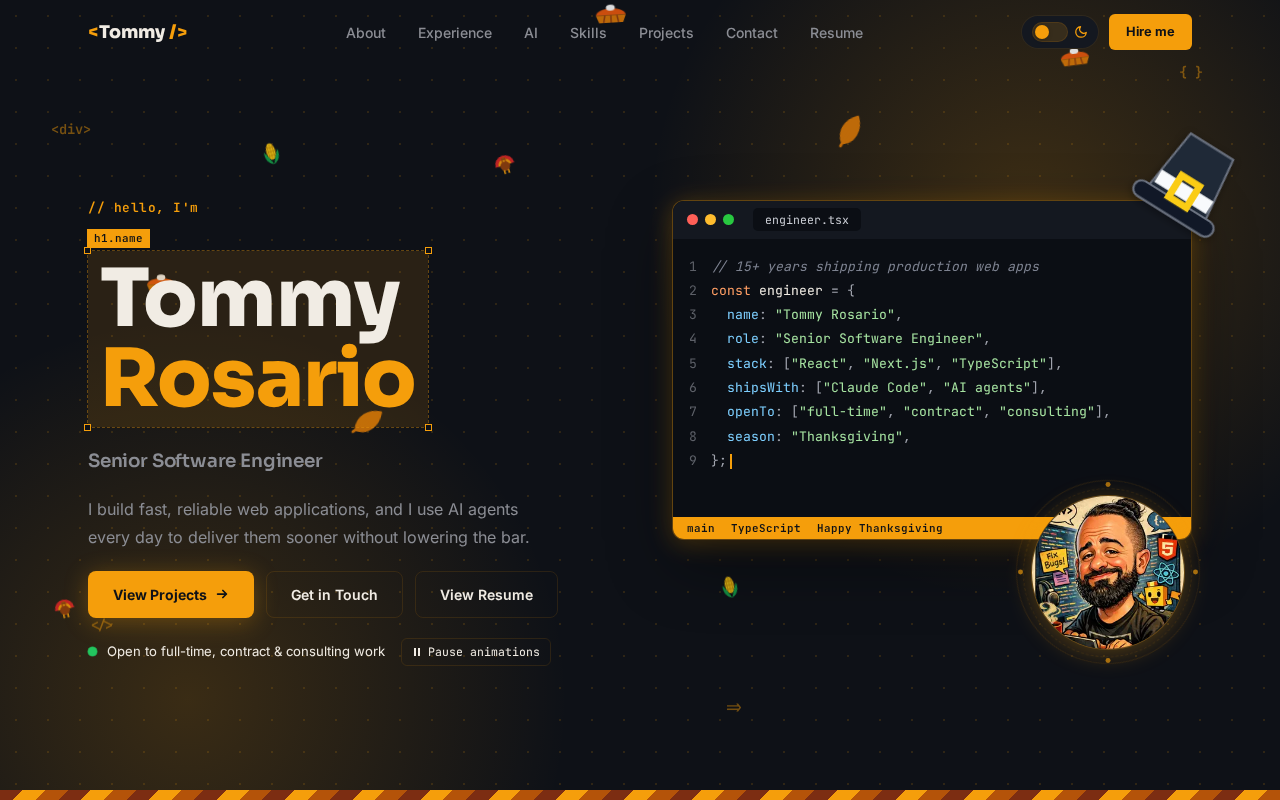
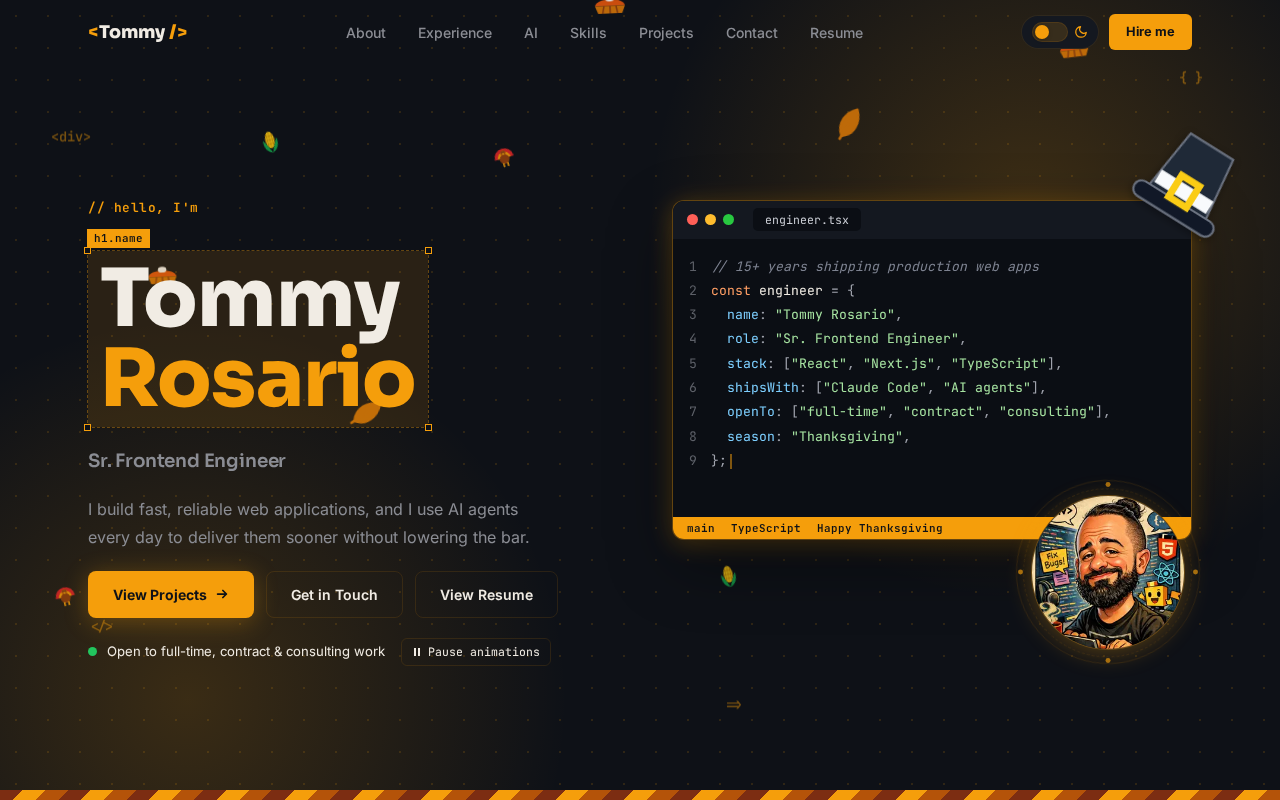
fix: use Sr. Frontend Engineer as the site title

diff --git a/site.config.ts b/site.config.ts
@@ -8,7 +8,7 @@ export const siteConfig = {
   name:       "Tommy Rosario",
   firstName:  "Tommy",
   lastName:   "Rosario",
-  role:       "Senior Software Engineer",
+  role:       "Sr. Frontend Engineer",
   favicon:    "/favicon.ico",
   icons: {
       icon16: "/favicon-16x16.png",
@@ -25,7 +25,7 @@ export const siteConfig = {
   availabilityLabel: "Open to full-time, contract & consulting work",
 
   // ── Bio (naturally keyword-rich, readable) ────────────────────────────────
-  bio: "Senior Software Engineer with 15+ years building high-performance, scalable web applications for consumer platforms and internal enterprise tools. Expert in React, Next.js, TypeScript, Angular, and Vue, with a strong foundation in modern CSS, Tailwind, and design systems.",
+  bio: "Senior Frontend Engineer with 15+ years building high-performance, scalable web applications for consumer platforms and internal enterprise tools. Expert in React, Next.js, TypeScript, Angular, and Vue, with a strong foundation in modern CSS, Tailwind, and design systems.",
   bioExtended:
     "Known for leading large-scale frontend migrations, improving performance and SEO, and delivering fast, polished user experiences that directly support business growth. Comfortable working across product, design, and data teams to ship features that scale.",
   bioHighlights: [
@@ -48,7 +48,7 @@ export const siteConfig = {
   lastUpdated: "2026-11-04",
   /** Primary meta description — ≤160 chars */
   metaDescription:
-    "Tommy Rosario is a senior software engineer specializing in React, Next.js, and AI-assisted delivery. Open to full-time, contract, and consulting work.",
+    "Tommy Rosario is a senior frontend engineer specializing in React, Next.js, and AI-assisted delivery. Open to full-time, contract, and consulting work.",
 
   // ── JSON-LD extras ────────────────────────────────────────────────────────
   knowsAbout: [
